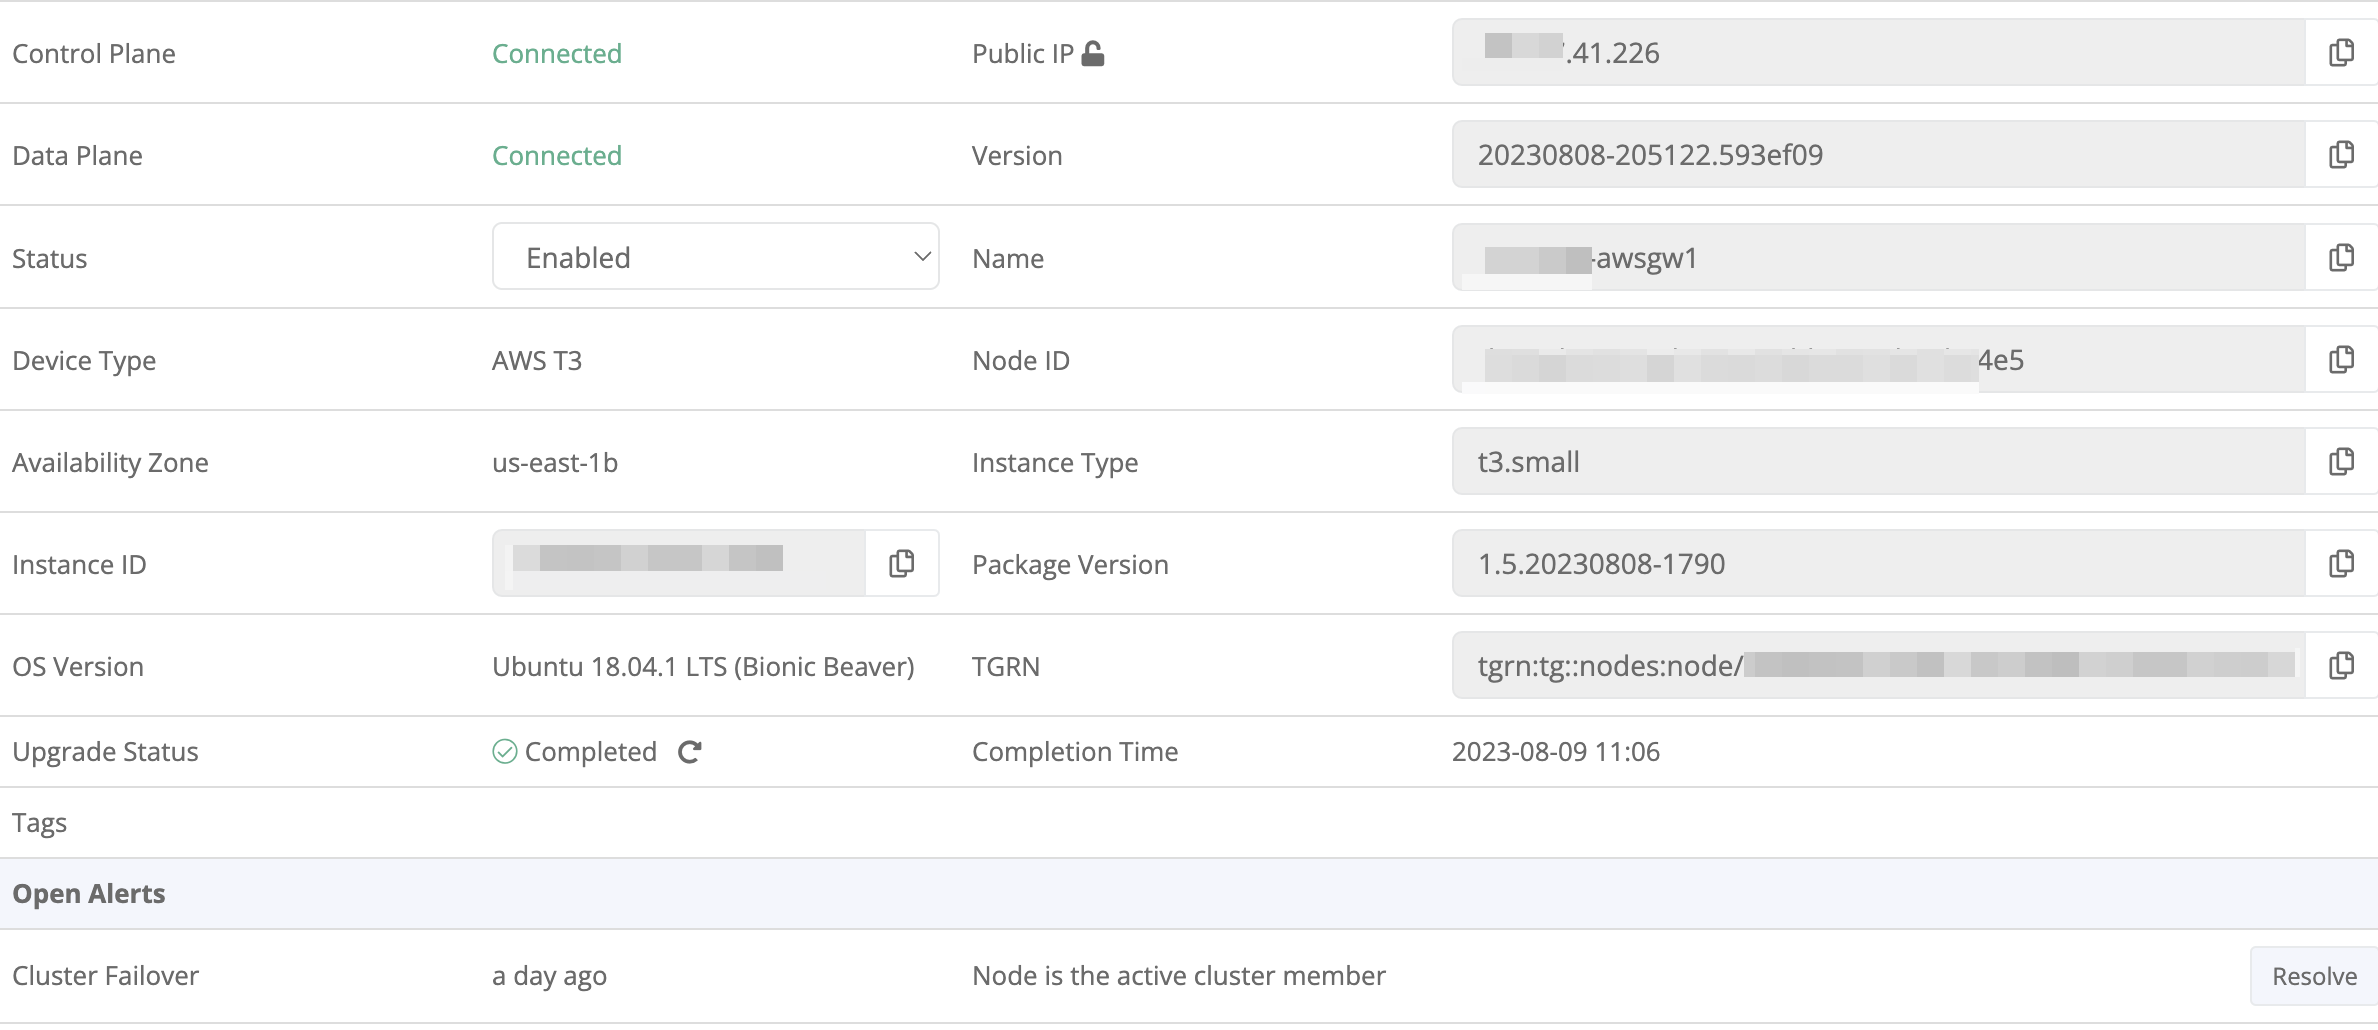
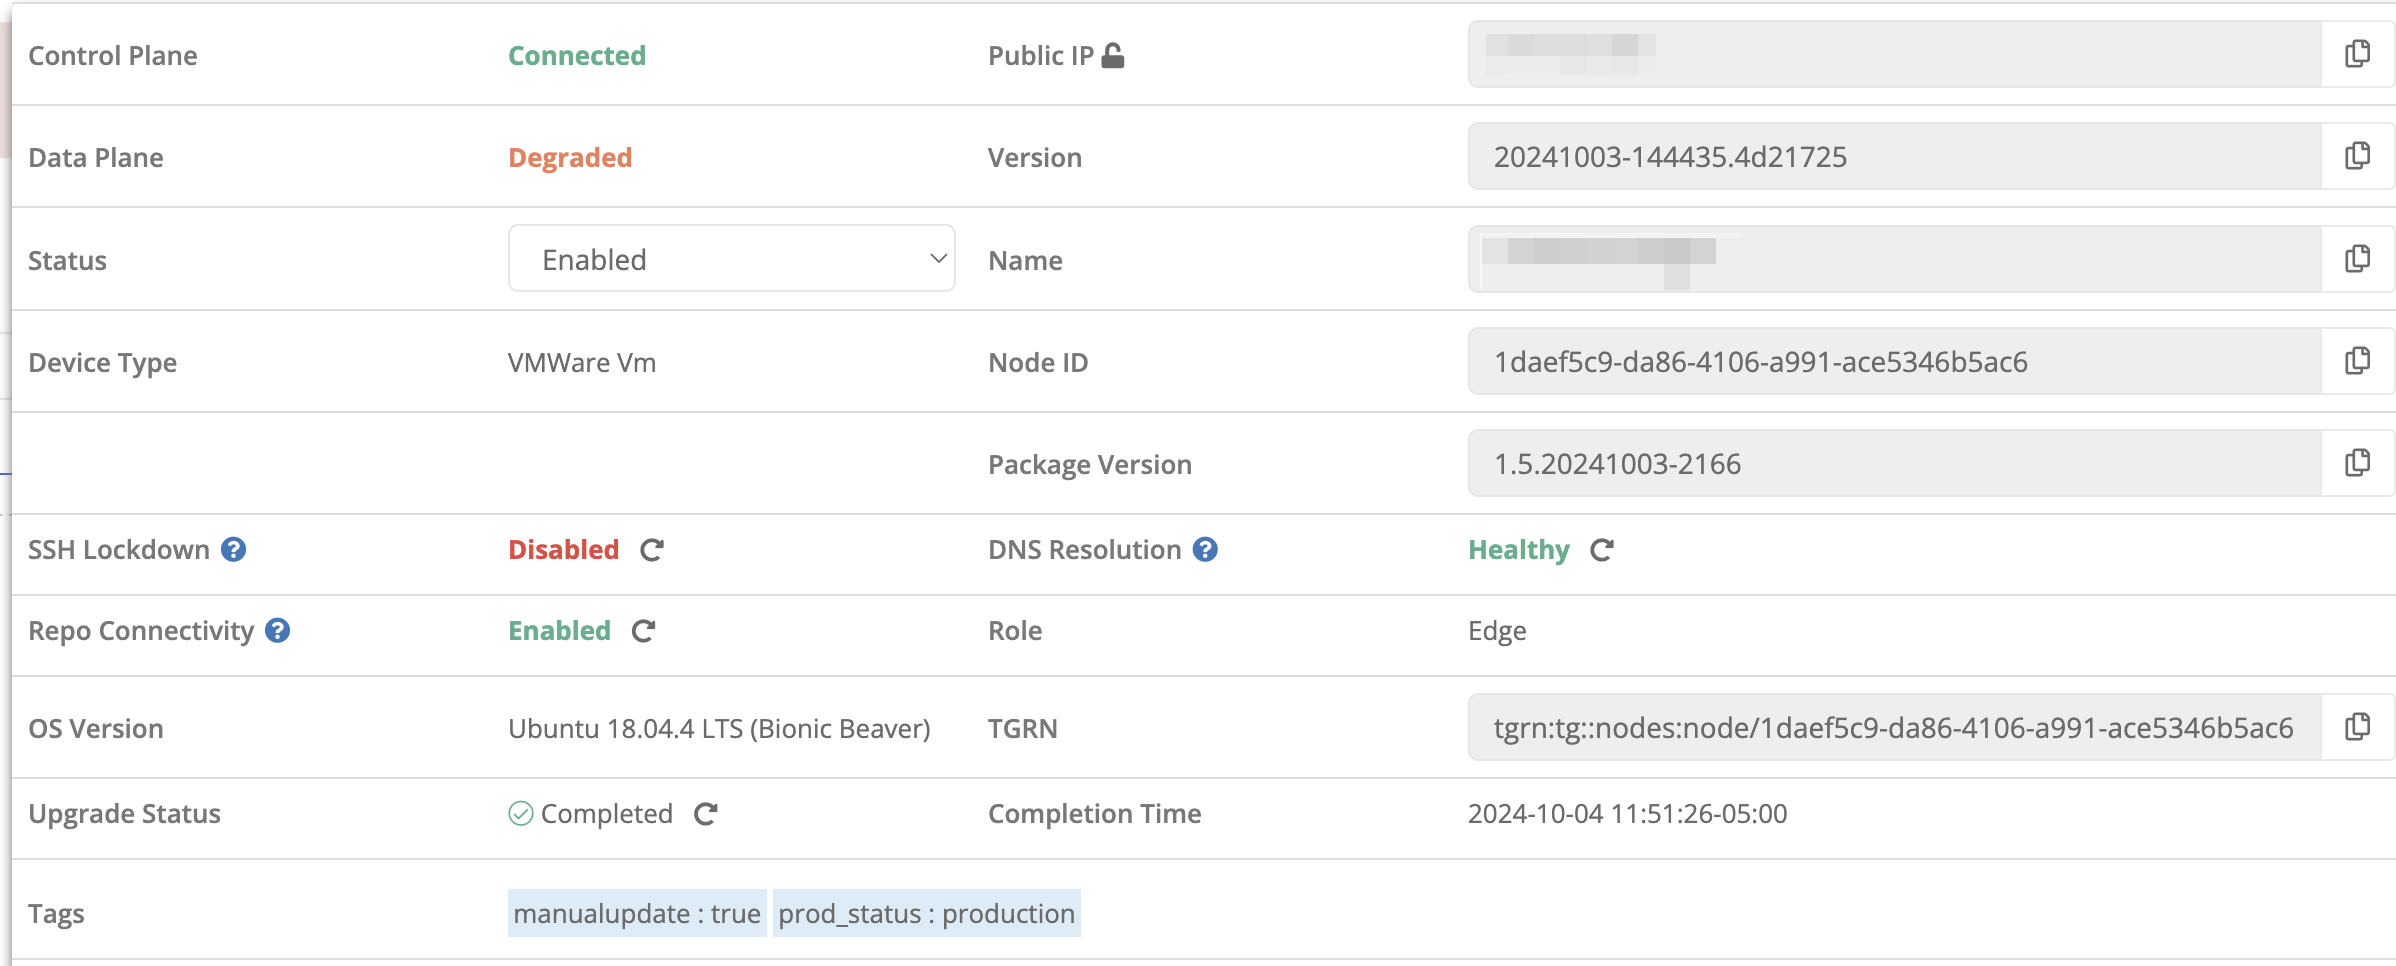
first batch of release notes

diff --git a/content/en/docs/alarms/event-types/index.md b/content/en/docs/alarms/event-types/index.md
@@ -4,8 +4,8 @@ Tags: ["event types", "events", "alarms"]
 Date: 2022-12-28
 ---
 
-| Filter Type Name                           | Severity | Message                                                                                              | Description                                                                                                                                                                                                                                        |
-| ------------------------------------------ | -------- | ---------------------------------------------------------------------------------------------------- | -------------------------------------------------------------------------------------------------------------------------------------------------------------------------------------------------------------------------------------------------- |
+| Filter Type Name | Severity | Message | Description |
+| ---------------- | -------- | ------- | ----------- |
 | All Gateways Disconnected                  | WARNING  |                                                                                                      | This [event]({{<ref "docs/alarms/events" >}}) will be triggered if an edge node loses connectivity to all it’s available gateways.                                                                                                                |
 | All Peers Disconnected                     | WARNING  |                                                                                                      | This [event]({{<ref "docs/alarms/events" >}}) will be triggered if a node is configured as a gateway an it lose connectivity to all it’s configured edge nodes.                                                                                   |
 | Certificate Expiring                       | WARNING  |                                                                                                      | Alerts when a certificate uploaded via Portal → Certificates is about to expire in less than three months.                                                                                                                                         |
@@ -26,6 +26,7 @@ Date: 2022-12-28
 | Metric Threshold Violation                 | INFO     |                                                                                                      | Alerts when a previously reported threshold violation has been cleared.                                                                                                                                                                            |
 | Network Error                              | CRITICAL | Stale ARP detected                                                                                   | Alerts when a stale ARP entry is detected for a [node’s]({{<ref "docs/nodes" >}}) [cluster]({{<ref "docs/clusters" >}}) IP.                                                                                                                        |
 | Network Error                              | WARNING  | Interface {OS interface name} is running with half-duplex                                            | Alerts if an interface has been detected running at half-duplex. This is almost always a result of a failure to auto-negotiate the speed/duplex and can result in poor performance.                                                                |
+| Networking Framework Memory Management | |
 | Network Health Check | ERROR | Interface {OS interface name} is down / All interfaces are up | Generated when link is lost on a configured interface. This is generated even if the interfaces is set with the "Ignore Health Check" setting enabled. Note: Interfaces with APIPA addresses are ignored. |
 | [Node]({{<ref "docs/nodes" >}}) Connect    | INFO     |                                                                                                      | Alerts when a [node]({{<ref "docs/nodes" >}}) connects to the control plane.                                                                                                                                                                       |
 | [Node]({{<ref "docs/nodes" >}}) Disconnect | WARNING  |                                                                                                      | Alerts when a [node]({{<ref "docs/nodes" >}}) disconnects from the control plane.                                                                                                                                                                  |
@@ -33,6 +34,10 @@ Date: 2022-12-28
 | Node Stop Error | ERROR | Failed to stop the Node service cleanly | Indicates that the Trustgrid service did not stop normally prior to this instance starting|
 | Order Created                              | INFO     |                                                                                                      | Alerts when a new provisioning order has been created.                                                                                                                                                                                             |
 | Order Commented                            | INFO     |                                                                                                      | Alerts when a provisioning order case has been commented.                                                                                                                                                                                          |
+| Repo Connectivity | ERROR | Repo connectivity failed | Alerts when a node cannot connect to the Trustgrid update repository | 
+| Repo Connectivity | INFO | Repo connectivity re-established | Alerts when a node re-establishes connectivty to the Trustgrid update repository. This event clears the Repo Connectivity error alert.| 
+| SSH Lockdown | ERROR | SSH allowing connections from non local address and port | Alerts when SSH on an appliance-based node is configured to listen on any IP other than local host (127.0.0.1).|
+| SSH Lockdown | INFO | SSH listening only on local address and port | Alerts when SSH on an appliance- based node is properly locked down. This event clears the SSH Lockdown error alert.| 
 | Unauthorized IP                            | WARNING  |                                                                                                      | Alerts when a [node's]({{<ref "docs/nodes" >}}) public IP has been locked but the connection to the control plane comes from a different IP.                                                                                                       |
 | Deregister | INFO | Device was deregistered from the console | Event is sent if a user with console access runs the [deregistration process]({{<ref "/tutorials/local-console-utility/remote-registration#deregistration-process">}}) | 
 ---

diff --git a/content/en/release-notes/node/2024-10/index.md b/content/en/release-notes/node/2024-10/index.md
@@ -1,0 +1,38 @@
+---
+title: October 2024 Major Appliance Release Notes
+linkTitle: October 2024 Major
+type: docs
+date: 2024-10-07
+description: "Release notes for the October 2024 Major Trustgrid Appliance release"
+---
+{{< node-release package-version="TBD" core-version="TBD" release="n-2.21.0" >}}
+
+
+## Force Node Health Check Refresh
+In the [July 2024 cloud release]({{<relref "/release-notes/cloud/2024-07#node-health-check-visibility">}}) Trustgrid exposed warnings in the portal if a node was unable to connect to its configured DNS server, the Trustgrid update repository (repo), or if SSH had been reconfigured to listen on an IP other than localhost.  These health checks run automatically at the following times:
+- Repo Connectivity is checked every 24 hours
+- DNS Resolution runs hourly 
+- SSH Lockdown is checked when the node service first starts
+With this release, rather than waiting for the health checks to rerun and update the state of each check you can now force the node to rerun each check.  
+In the [infovisor]({{<relref "/docs/nodes/shared/infovisor">}}) refresh buttons have been added next to each health check.  Clicking this will force the node to verify if the check is healthy or nor.
+{{<tgimg src="health-check-refresh.png" width="75%" caption="Infovisor with health check refresh buttons">}}
+### Health Check Events
+
+
+## UDP Tunnels
+### Additional Path UDP Support
+With this release, appliances with UDP enabled will attempt to build connections for any [additional paths]({{<relref "/docs/nodes/appliances/gateway/gateway-client#gateway-paths">}}) defined in the Gateway > Client settings. 
+
+### UDP Tunnel Events and Logging
+** Need to populate once we have a build with the change ***
+
+## New Event Types
+The following events have been added or updated:
+- Clustered AWS-based appliances will now send an event if they are unable to retrieve AWS credentials needed for updating AWS route table entries.
+- The new `Networking Framework Memory Management` event type will alert if the appliance's java virtual machine experience out of memory errors. 
+- This release adds new `SSH Lockdown` and `Repo Connectivity` events to give visibility on when a node transitioned between healthy and unhealthy states. 
+
+## Other Improvements and Fixes
+- Addresses an issue with [port forwards]({{<relref "/docs/nodes/appliances/vpn/port-forwarding">}}) that could cause failures under high load.
+- Changing the listening interface on a [connector]({{<relref "/docs/nodes/shared/connectors">}}) no longer requires a restart to be effective.
+- Resolves an issue that caused the active cluster member to flap between devices. This issue would present in the logs with repeated messages about `Connection closed: node=<peer node>,reason=Session closed locally/remotely`

diff --git a/content/en/docs/nodes/shared/infovisor/index.md b/content/en/docs/nodes/shared/infovisor/index.md
@@ -24,6 +24,9 @@ It contains the below information but can vary between appliance and agent-based
 |Package Version| ❌ |✅|
 |[Enabled / Disabled Status]({{<ref "/tutorials/management-tasks/changing-node-status" >}})| ✅ |✅|
 |Device Type | Show "Agent" as type|✅|
+|SSH Lockdown |❌|✅|
+|DNS Resolution | ❌|✅|
+|Repo Connectivity| ❌|✅|
 |Operating System (OS) Version| ✅ |✅|
 |[TGRN or Trustgrid Resource Name]({{<ref "/docs/user-management/policies#trustgrid-resource-names-or-tgrn">}})| ✅ |✅|
 | Upgrade Status| ❌ |✅|

diff --git a/content/en/docs/nodes/appliances/gateway/gateway-client/index.md b/content/en/docs/nodes/appliances/gateway/gateway-client/index.md
@@ -35,7 +35,7 @@ Options are `Allowed` or `Denied`. If set to `Denied` this will cause the node t
 
 {{<tgimg src="gateway-client-settings.png" width="85%" caption="Gateway Client settings" alt="screenshot of gateway client settings">}}
 
-#### Gateway Paths
+## Gateway Paths
 
 Allows you to define alternate paths to a gateway server
 
